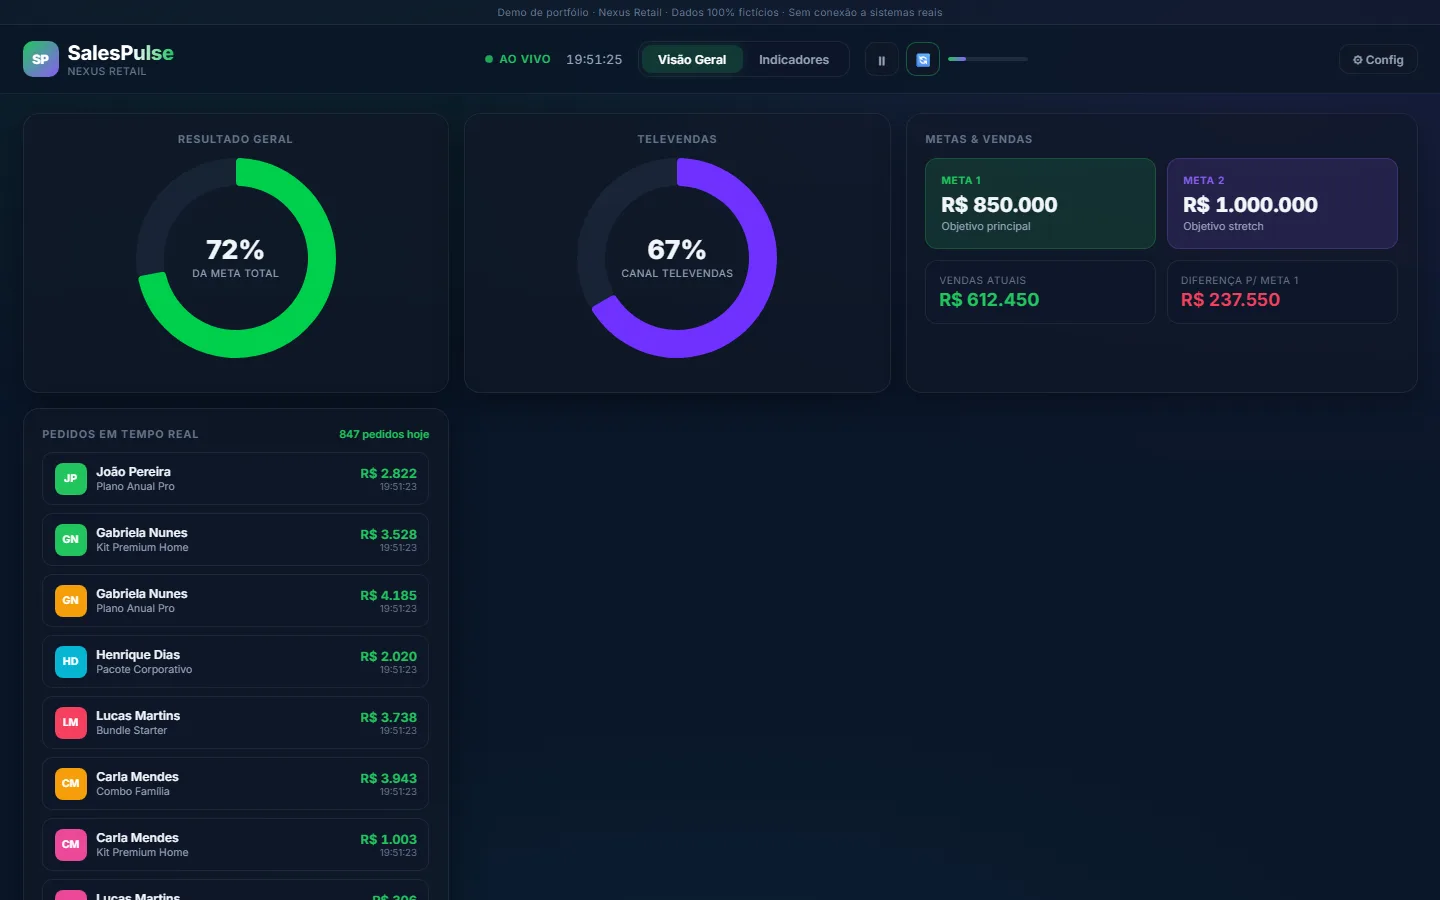
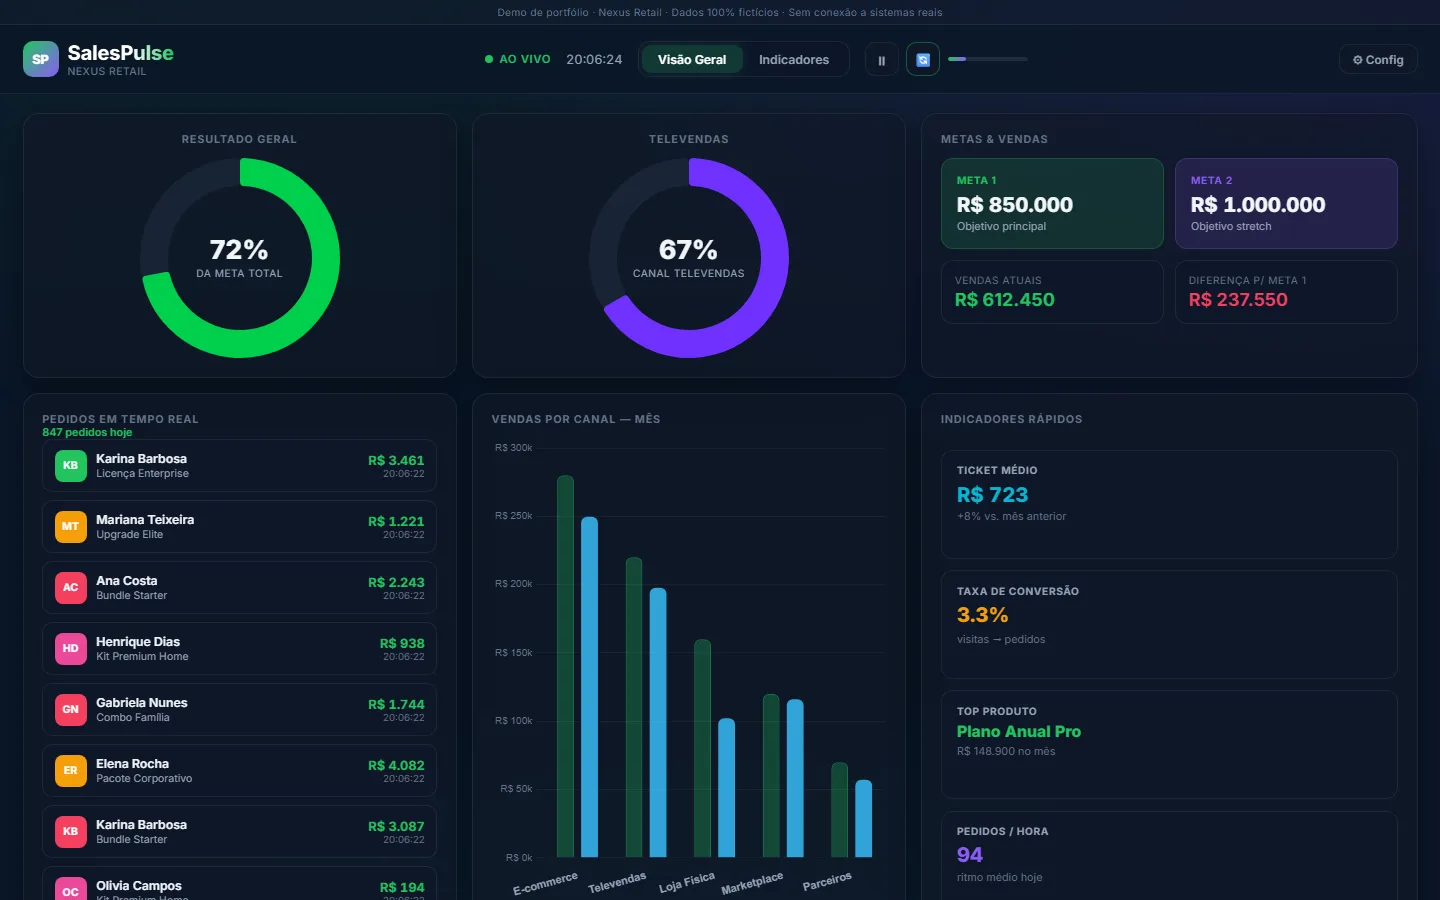
Fill SalesPulse overview empty space with channel bar chart and KPIs.

diff --git a/projetos/sales-pulse/index.html b/projetos/sales-pulse/index.html
@@ -273,16 +273,101 @@
     /* ── Visão Geral grid ── */
     .overview-grid {
       display: grid;
-      grid-template-columns: 1fr 1fr 1.2fr;
-      grid-template-rows: auto auto;
+      grid-template-columns: 1.05fr 1.05fr 1.2fr;
+      grid-template-areas:
+        "geral tele metas"
+        "orders bars side";
       gap: 1rem;
+      align-items: stretch;
     }
+
+    .card-geral { grid-area: geral; }
+    .card-tele { grid-area: tele; }
+    .card-metas { grid-area: metas; }
+    .orders-card { grid-area: orders; }
+    .bars-card { grid-area: bars; }
+    .side-card { grid-area: side; }
 
     .chart-card {
       display: flex;
       flex-direction: column;
       align-items: center;
-      min-height: 280px;
+      min-height: 260px;
+    }
+
+    .bars-card {
+      display: flex;
+      flex-direction: column;
+      min-height: 340px;
+    }
+
+    .bars-card .chart-container {
+      flex: 1;
+      min-height: 260px;
+      height: auto;
+    }
+
+    .side-card {
+      display: flex;
+      flex-direction: column;
+      gap: 0.75rem;
+      min-height: 340px;
+    }
+
+    .side-metric {
+      flex: 1;
+      padding: 0.9rem 1rem;
+      border-radius: 12px;
+      background: rgba(15, 23, 42, 0.55);
+      border: 1px solid var(--border);
+    }
+
+    .side-metric .label {
+      font-size: 0.68rem;
+      font-weight: 700;
+      text-transform: uppercase;
+      letter-spacing: 0.06em;
+      color: var(--text-muted);
+      margin-bottom: 0.35rem;
+    }
+
+    .side-metric .value {
+      font-size: 1.35rem;
+      font-weight: 800;
+      font-variant-numeric: tabular-nums;
+    }
+
+    .side-metric .hint {
+      font-size: 0.72rem;
+      color: var(--text-dim);
+      margin-top: 0.25rem;
+    }
+
+    .side-metric.accent-cyan .value { color: var(--cyan); }
+    .side-metric.accent-amber .value { color: var(--amber); }
+    .side-metric.accent-green .value { color: var(--green); }
+    .side-metric.accent-violet .value { color: var(--violet); }
+
+    .channel-legend {
+      display: flex;
+      flex-wrap: wrap;
+      gap: 0.65rem 1rem;
+      margin-top: 0.35rem;
+    }
+
+    .channel-legend span {
+      display: inline-flex;
+      align-items: center;
+      gap: 0.35rem;
+      font-size: 0.7rem;
+      color: var(--text-muted);
+    }
+
+    .channel-legend i {
+      width: 8px;
+      height: 8px;
+      border-radius: 2px;
+      display: inline-block;
     }
 
     .doughnut-wrap {
@@ -374,10 +459,11 @@
 
     /* ── Live orders ── */
     .orders-card {
-      grid-row: span 2;
       display: flex;
       flex-direction: column;
-      max-height: 580px;
+      max-height: none;
+      min-height: 340px;
+    }
     }
 
     .orders-header {
@@ -394,6 +480,10 @@
     }
 
     .orders-list {
+      flex: 1;
+      overflow-y: auto;
+      min-height: 0;
+    }
       flex: 1;
       overflow-y: auto;
       display: flex;
@@ -696,8 +786,15 @@
 
     /* ── Responsive ── */
     @media (max-width: 1200px) {
-      .overview-grid { grid-template-columns: 1fr 1fr; }
-      .orders-card { grid-row: auto; max-height: 400px; }
+      .overview-grid {
+        grid-template-columns: 1fr 1fr;
+        grid-template-areas:
+          "geral tele"
+          "metas metas"
+          "bars bars"
+          "orders side";
+      }
+      .orders-card { max-height: 420px; }
       .indicadores-grid { grid-template-columns: 1fr 1fr; }
       .kpi-strip { grid-template-columns: repeat(3, 1fr); }
     }
@@ -705,7 +802,16 @@
     @media (max-width: 768px) {
       .header { padding: 0.85rem 1rem; }
       .main { padding: 1rem; }
-      .overview-grid { grid-template-columns: 1fr; }
+      .overview-grid {
+        grid-template-columns: 1fr;
+        grid-template-areas:
+          "geral"
+          "tele"
+          "metas"
+          "bars"
+          "side"
+          "orders";
+      }
       .meta-cards { grid-template-columns: 1fr; }
       .kpi-strip { grid-template-columns: repeat(2, 1fr); }
       .indicadores-grid { grid-template-columns: 1fr; }
@@ -713,6 +819,7 @@
       .doughnut-wrap { width: 170px; height: 170px; }
       .motiv-popup { right: 1rem; left: 1rem; max-width: none; }
       .logo-text { font-size: 1.15rem; }
+      .orders-card { max-height: 380px; }
     }
 
     @media (max-width: 480px) {
@@ -762,7 +869,7 @@
     <section class="view-panel active" id="panel-overview">
       <div class="overview-grid">
 
-        <div class="card chart-card">
+        <div class="card chart-card card-geral">
           <div class="card-title">Resultado Geral</div>
           <div class="doughnut-wrap">
             <canvas id="chartGeral"></canvas>
@@ -773,7 +880,7 @@
           </div>
         </div>
 
-        <div class="card chart-card">
+        <div class="card chart-card card-tele">
           <div class="card-title">Televendas</div>
           <div class="doughnut-wrap">
             <canvas id="chartTele"></canvas>
@@ -784,7 +891,7 @@
           </div>
         </div>
 
-        <div class="card">
+        <div class="card card-metas">
           <div class="card-title">Metas &amp; Vendas</div>
           <div class="meta-cards">
             <div class="meta-card m1">
@@ -816,6 +923,41 @@
             <div class="orders-count" id="ordersCount">0 pedidos hoje</div>
           </div>
           <div class="orders-list" id="ordersList"></div>
+        </div>
+
+        <div class="card bars-card">
+          <div class="card-title">Vendas por Canal — Mês</div>
+          <div class="chart-container">
+            <canvas id="chartBars"></canvas>
+          </div>
+          <div class="channel-legend">
+            <span><i style="background:#22c55e"></i> Meta do canal</span>
+            <span><i style="background:#38bdf8"></i> Realizado</span>
+          </div>
+        </div>
+
+        <div class="card side-card">
+          <div class="card-title">Indicadores Rápidos</div>
+          <div class="side-metric accent-cyan">
+            <div class="label">Ticket Médio</div>
+            <div class="value" id="sideTicket">R$ 0</div>
+            <div class="hint" id="sideTicketHint">vs. mês anterior</div>
+          </div>
+          <div class="side-metric accent-amber">
+            <div class="label">Taxa de Conversão</div>
+            <div class="value" id="sideConv">0%</div>
+            <div class="hint">visitas → pedidos</div>
+          </div>
+          <div class="side-metric accent-green">
+            <div class="label">Top Produto</div>
+            <div class="value" id="sideTop" style="font-size:1.05rem">—</div>
+            <div class="hint" id="sideTopHint">maior faturamento</div>
+          </div>
+          <div class="side-metric accent-violet">
+            <div class="label">Pedidos / Hora</div>
+            <div class="value" id="sidePace">0</div>
+            <div class="hint">ritmo médio hoje</div>
+          </div>
         </div>
 
       </div>
@@ -968,6 +1110,16 @@
       { name: 'Bahia', value: 76000 }
     ];
 
+    const CHANNELS = [
+      { name: 'E-commerce', meta: 280000, real: 246800 },
+      { name: 'Televendas', meta: 220000, real: 198320 },
+      { name: 'Loja Física', meta: 160000, real: 98450 },
+      { name: 'Marketplace', meta: 120000, real: 112400 },
+      { name: 'Parceiros', meta: 70000, real: 59030 }
+    ];
+
+    const TOP_PRODUCT = { name: 'Plano Anual Pro', value: 148900 };
+
     const AVATAR_COLORS = ['#22c55e','#8b5cf6','#06b6d4','#f59e0b','#f43f5e','#ec4899','#6366f1'];
 
     const MOTIVATIONS = [
@@ -1052,6 +1204,91 @@
 
       if (state.charts.geral) updateDoughnut(state.charts.geral, pctGeral);
       if (state.charts.tele) updateDoughnut(state.charts.tele, pctTele);
+      updateSideMetrics();
+      if (state.charts.bars) updateBarsChart();
+    }
+
+    function updateSideMetrics() {
+      const ticket = Math.round(state.vendasAtuais / Math.max(1, state.ordersToday));
+      const conv = (3.2 + Math.random() * 0.6).toFixed(1);
+      const pace = Math.max(1, Math.round(state.ordersToday / 9));
+      document.getElementById('sideTicket').textContent = fmtMoney(ticket);
+      document.getElementById('sideTicketHint').textContent = '+8% vs. mês anterior';
+      document.getElementById('sideConv').textContent = conv + '%';
+      document.getElementById('sideTop').textContent = TOP_PRODUCT.name;
+      document.getElementById('sideTopHint').textContent = fmtMoney(TOP_PRODUCT.value) + ' no mês';
+      document.getElementById('sidePace').textContent = pace;
+    }
+
+    function createBarsChart() {
+      const el = document.getElementById('chartBars');
+      if (!el) return;
+      const ctx = el.getContext('2d');
+      state.charts.bars = new Chart(ctx, {
+        type: 'bar',
+        data: {
+          labels: CHANNELS.map(c => c.name),
+          datasets: [
+            {
+              label: 'Meta',
+              data: CHANNELS.map(c => c.meta),
+              backgroundColor: 'rgba(34, 197, 94, 0.28)',
+              borderColor: 'rgba(34, 197, 94, 0.55)',
+              borderWidth: 1,
+              borderRadius: 6,
+              barPercentage: 0.7,
+              categoryPercentage: 0.7
+            },
+            {
+              label: 'Realizado',
+              data: CHANNELS.map(c => c.real),
+              backgroundColor: 'rgba(56, 189, 248, 0.85)',
+              borderRadius: 6,
+              barPercentage: 0.7,
+              categoryPercentage: 0.7
+            }
+          ]
+        },
+        options: {
+          responsive: true,
+          maintainAspectRatio: false,
+          plugins: {
+            legend: { display: false },
+            tooltip: {
+              backgroundColor: '#1e293b',
+              titleColor: '#94a3b8',
+              bodyColor: '#f1f5f9',
+              borderColor: 'rgba(148,163,184,0.2)',
+              borderWidth: 1,
+              callbacks: {
+                label: (ctx) => ` ${ctx.dataset.label}: ${fmtMoney(ctx.parsed.y)}`
+              }
+            }
+          },
+          scales: {
+            x: {
+              grid: { display: false },
+              ticks: { color: '#94a3b8', font: { size: 11, weight: '600' } }
+            },
+            y: {
+              grid: { color: 'rgba(148,163,184,0.08)' },
+              ticks: {
+                color: '#64748b',
+                font: { size: 10 },
+                callback: (v) => 'R$ ' + (v / 1000).toFixed(0) + 'k'
+              }
+            }
+          }
+        }
+      });
+    }
+
+    function updateBarsChart() {
+      CHANNELS.forEach(c => {
+        c.real = Math.max(c.real * 0.97, Math.min(c.meta * 1.05, c.real + randomBetween(-2500, 4200)));
+      });
+      state.charts.bars.data.datasets[1].data = CHANNELS.map(c => Math.round(c.real));
+      state.charts.bars.update('none');
     }
 
     /* ── Live orders ── */
@@ -1352,6 +1589,7 @@
 
       state.charts.geral = createDoughnut('chartGeral', 0, '#22c55e');
       state.charts.tele = createDoughnut('chartTele', 0, '#8b5cf6');
+      createBarsChart();
 
       refreshOverview();
       initOrders();
@@ -1373,6 +1611,10 @@
 
       setInterval(animateRegions, 15000);
       setInterval(renderKPIs, 8000);
+      setInterval(() => {
+        if (state.charts.bars) updateBarsChart();
+        updateSideMetrics();
+      }, 9000);
 
       setTimeout(showMotivation, 8000);
       scheduleMotivation();
